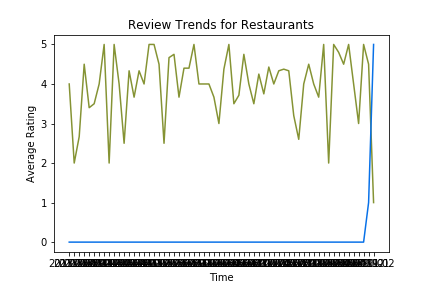
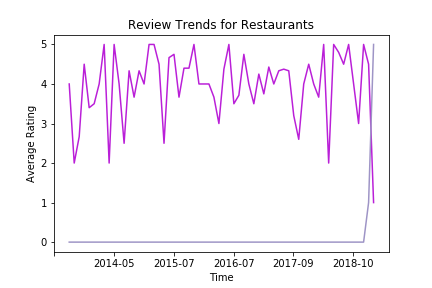
Changing date labels for graphs

Changed region(s): [[0.1505, 0.125, 0.8727, 0.8125], [0.1204, 0.875, 0.9329, 0.9375], [0.1505, 0.8125, 0.8426, 0.8438]]

diff --git a/dbms.py b/dbms.py
@@ -169,7 +169,7 @@ Returns a dataframe corresponding to restaurant_id; index contains the time-inve
 def avg_rating_binned(pd_df, rest_id, interval):
     pd_df = pd_df[pd_df.restaurant_id == rest_id]
     pd_df.date = pd_df.date.dt.to_period(interval)
-    return pd_df.groupby(pd_df.date).mean()[["rating"]]
+    return (pd_df.groupby(pd_df.date).mean()[["rating"]],pd_df.date.min())
 
 '''
 Returns dictionary where the keys are the yelp restaurant ids and the corresponding value is the restaurant name
